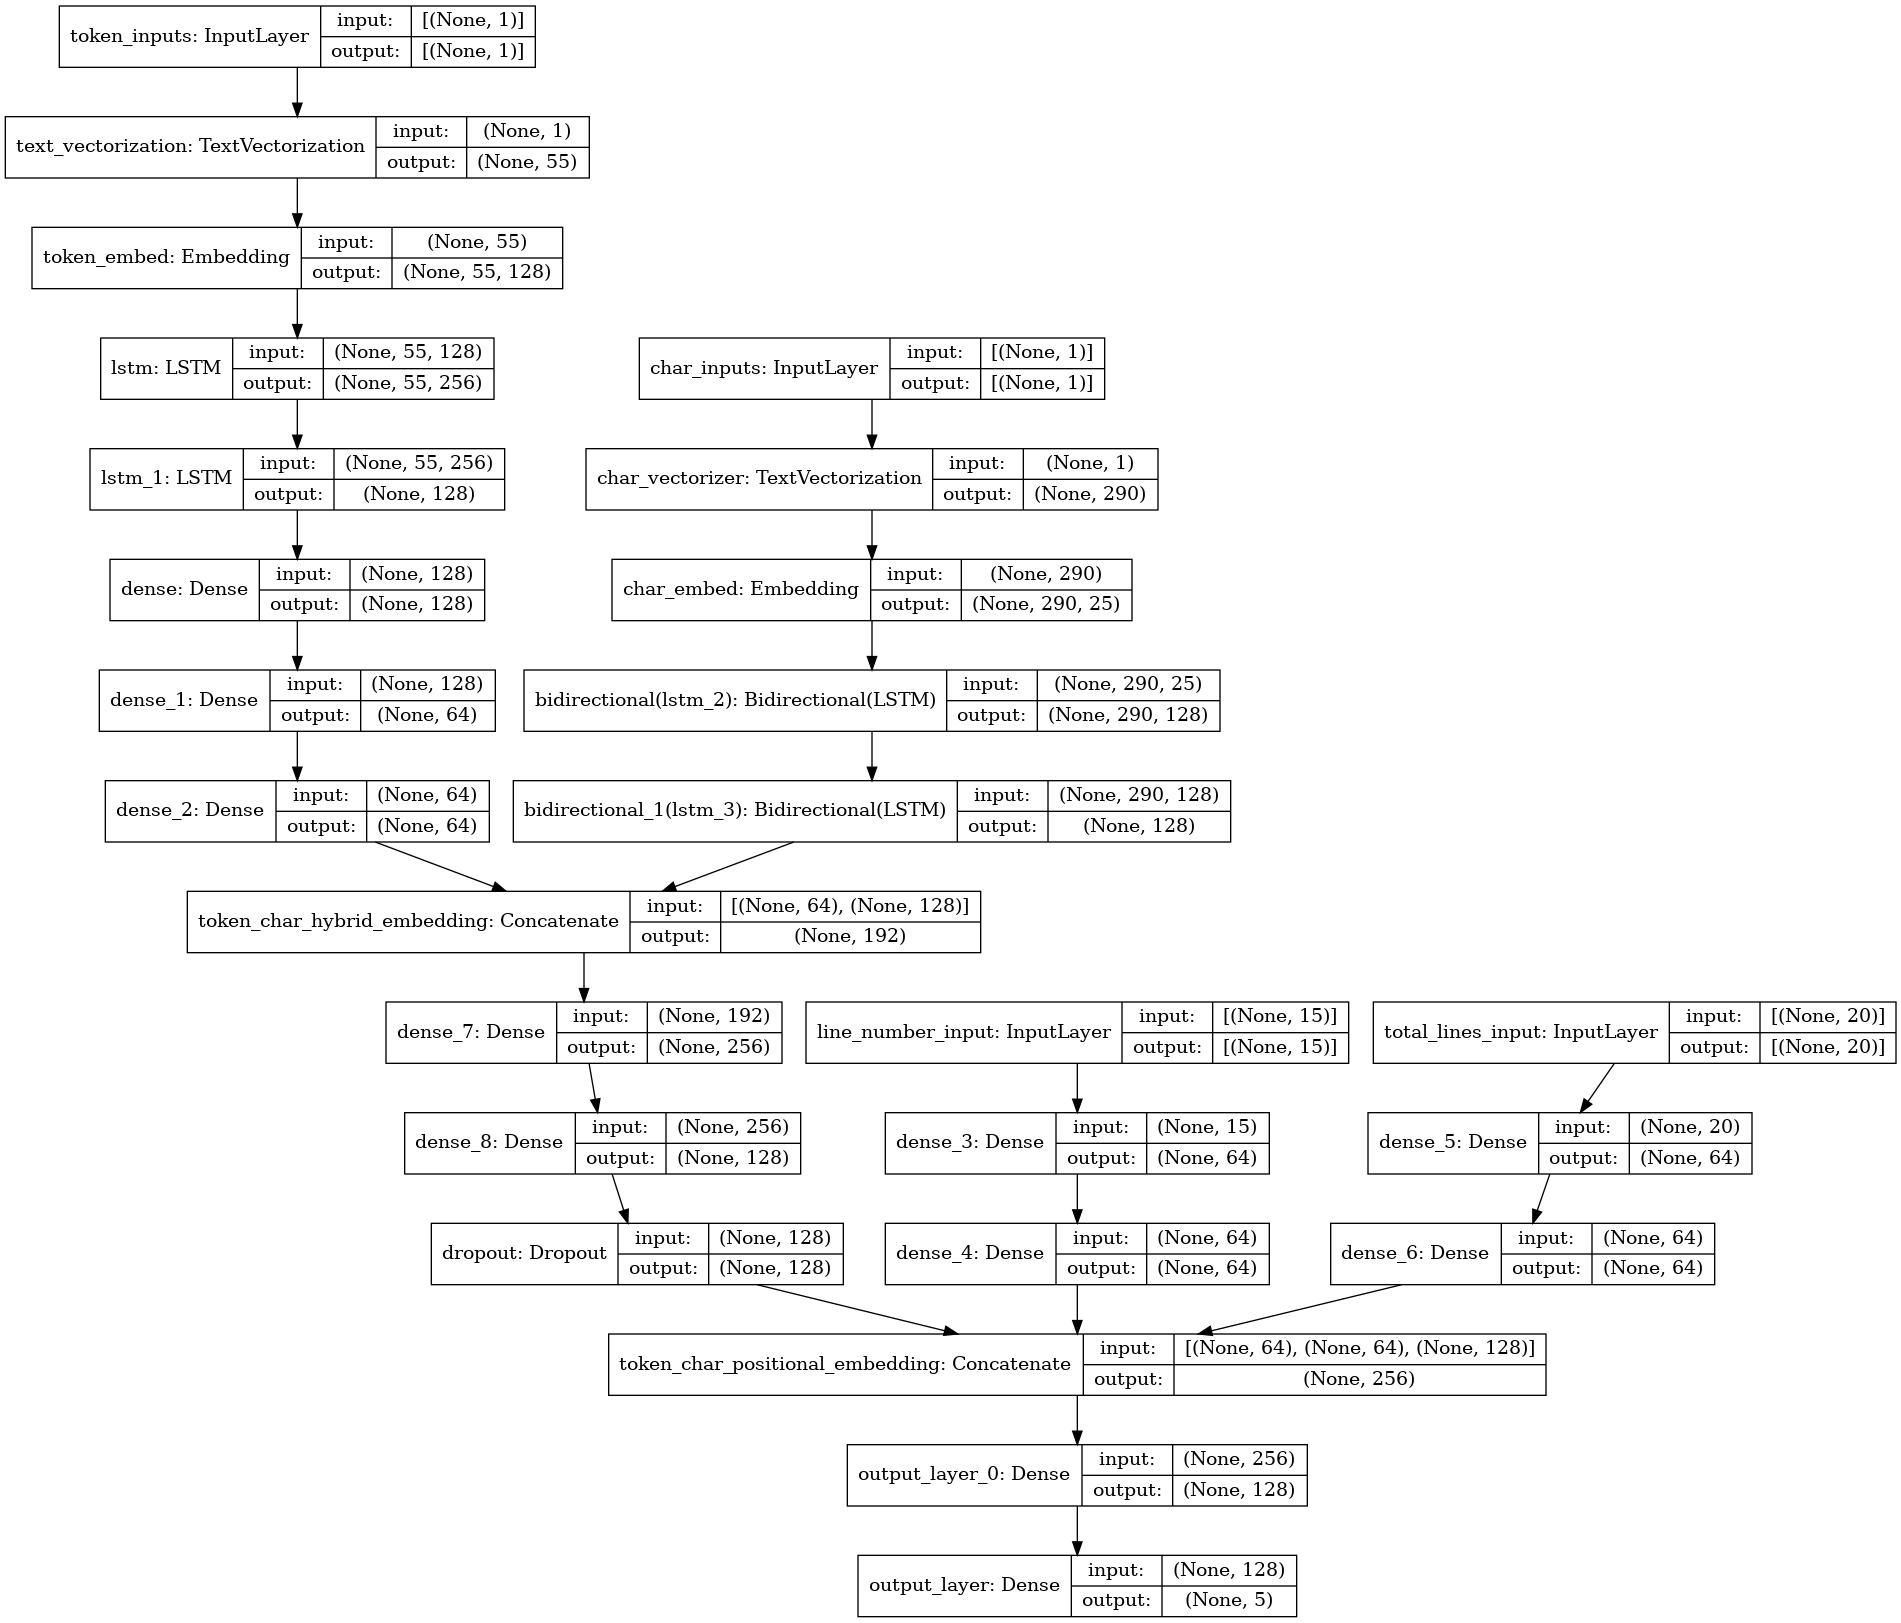
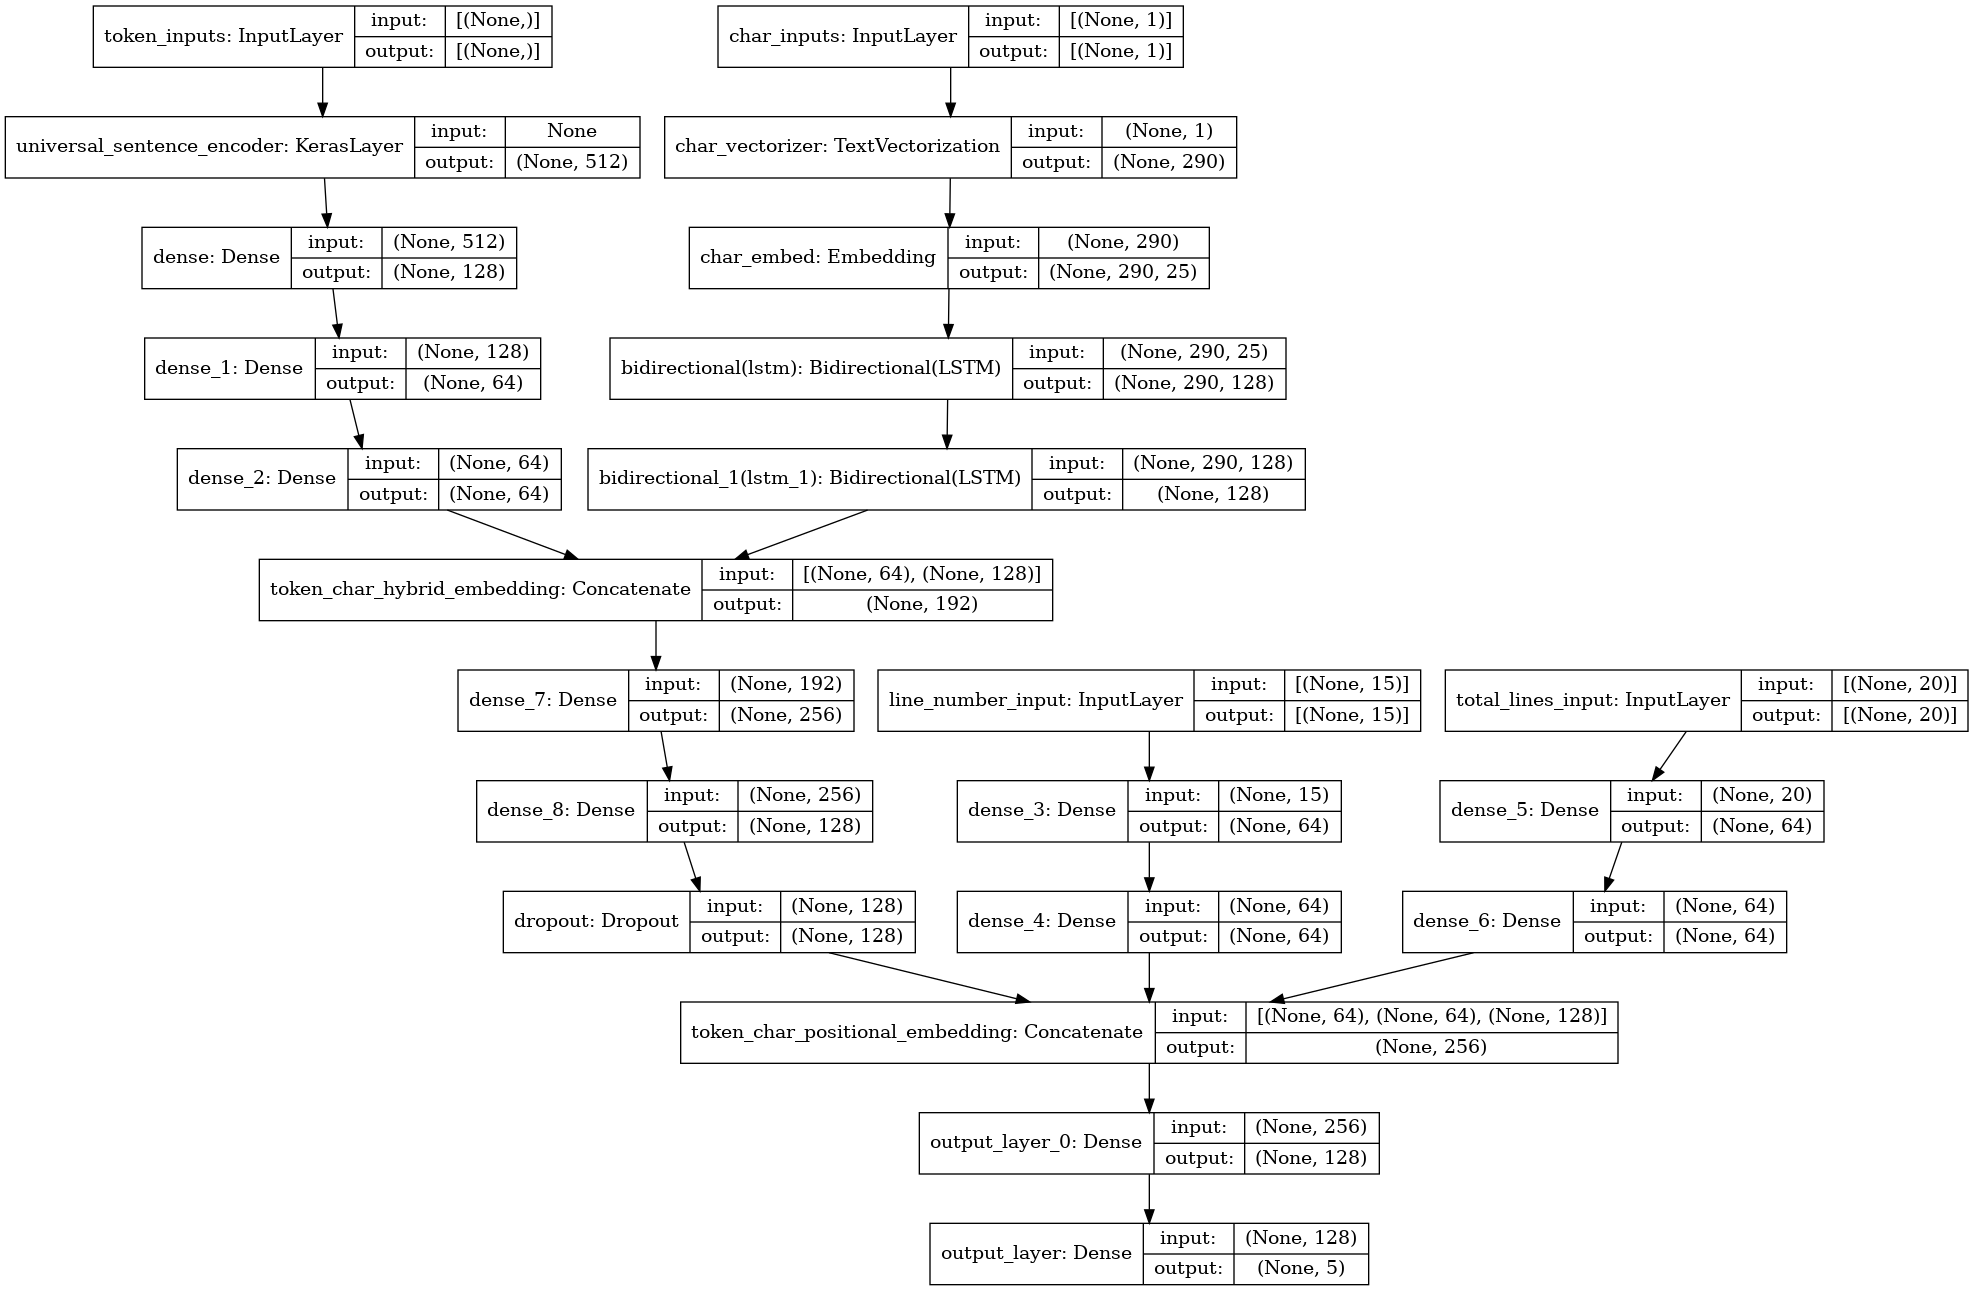
Added instructions to try with trained model.

Changed region(s): [[0.0, 0.0, 1.0, 1.0]]

diff --git a/src/models.py b/src/models.py
@@ -15,12 +15,6 @@ tf_hub_embedding_layer = hub.KerasLayer(EMBEDDING_LAYER_URL,
                                         trainable=False,
                                         name="universal_sentence_encoder")
 
-BERT_PUBMED_LAYER_URL = 'https://tfhub.dev/google/experts/bert/pubmed/2'
-
-bert_layer = hub.KerasLayer(BERT_PUBMED_LAYER_URL,
-                            trainable=False,
-                            name='bert_model_layer')
-
 char_vectorizer = tf.keras.layers.TextVectorization(max_tokens=data.NUM_CHAR_TOKENS,
                                                     output_sequence_length=data.output_sequences_char_length,
                                                     standardize="lower_and_strip_punctuation",
@@ -109,17 +103,33 @@ def tribrid_model():
     :return: a compiled model which accepts char_embedding, token_embedding and positional_embedding.
     """
 
-    text_vectorizer = layers.TextVectorization(max_tokens=data.MAX_TOKENS,
-                                               output_sequence_length=data.output_sequences_len)
+    # text_vectorizer = layers.TextVectorization(max_tokens=data.MAX_TOKENS,
+    #                                            output_sequence_length=data.output_sequences_len)
+    #
+    # text_vectorizer.adapt(data.train_sentences)
 
-    text_vectorizer.adapt(data.train_sentences)
+    # tf_hub_embedding_layer = hub.KerasLayer(EMBEDDING_LAYER_URL,
+    #                                         trainable=False,
+    #                                         name="universal_sentence_encoder")
 
-    token_inputs = layers.Input(shape=(1,), dtype=tf.string, name="token_inputs")
-    token_vectors = text_vectorizer(token_inputs)
-    token_embeddings = token_embedding(token_vectors)
-    token_lstm_1 = layers.LSTM(256, return_sequences=True)(token_embeddings)
-    token_lstm_2 = layers.LSTM(128)(token_lstm_1)
-    dense_1 = layers.Dense(128, activation='relu')(token_lstm_2)
+    BERT_PUBMED_LAYER_URL = 'https://tfhub.dev/google/experts/bert/pubmed/2'
+
+    preprocessing_layer = hub.KerasLayer('https://tfhub.dev/tensorflow/bert_en_uncased_preprocess/3',
+                                         trainable=False, name='pubmed_bert_preprocessor')
+
+    bert_layer = hub.KerasLayer(BERT_PUBMED_LAYER_URL,
+                                trainable=False,
+                                name='bert_model_layer')
+
+    token_inputs = layers.Input(shape=[], dtype=tf.string, name="token_inputs") #(1,)
+    # token_vectors = text_vectorizer(token_inputs)
+    bert_input = preprocessing_layer(token_inputs)
+    bert_embedding = bert_layer(bert_input)
+    # token_embeddings = token_embedding(token_vectors)
+    # token_embeddings = tf_hub_embedding_layer(token_inputs)
+    # token_lstm_1 = layers.LSTM(256, return_sequences=True)(token_embeddings)
+    # token_lstm_2 = layers.LSTM(128)(token_lstm_1)
+    dense_1 = layers.Dense(128, activation='relu')(bert_embedding)
     dense_2 = layers.Dense(64, activation='relu')(dense_1)
     token_outputs = layers.Dense(64, activation='relu')(dense_2)
     token_model = tf.keras.Model(inputs=token_inputs,

diff --git a/README.md b/README.md
@@ -42,9 +42,11 @@ Here is a screenshot of the application
 
 ![](src/streamlit_screenshot.png)
 
+Replace your trained model with model at deploy_models/
+Make changes in the app.py file in the funciton load_serving_model()
+
 To run the streamlit application, 
 
 `streamlit run app.py`
 
-you can also access the app from [here]()
 
